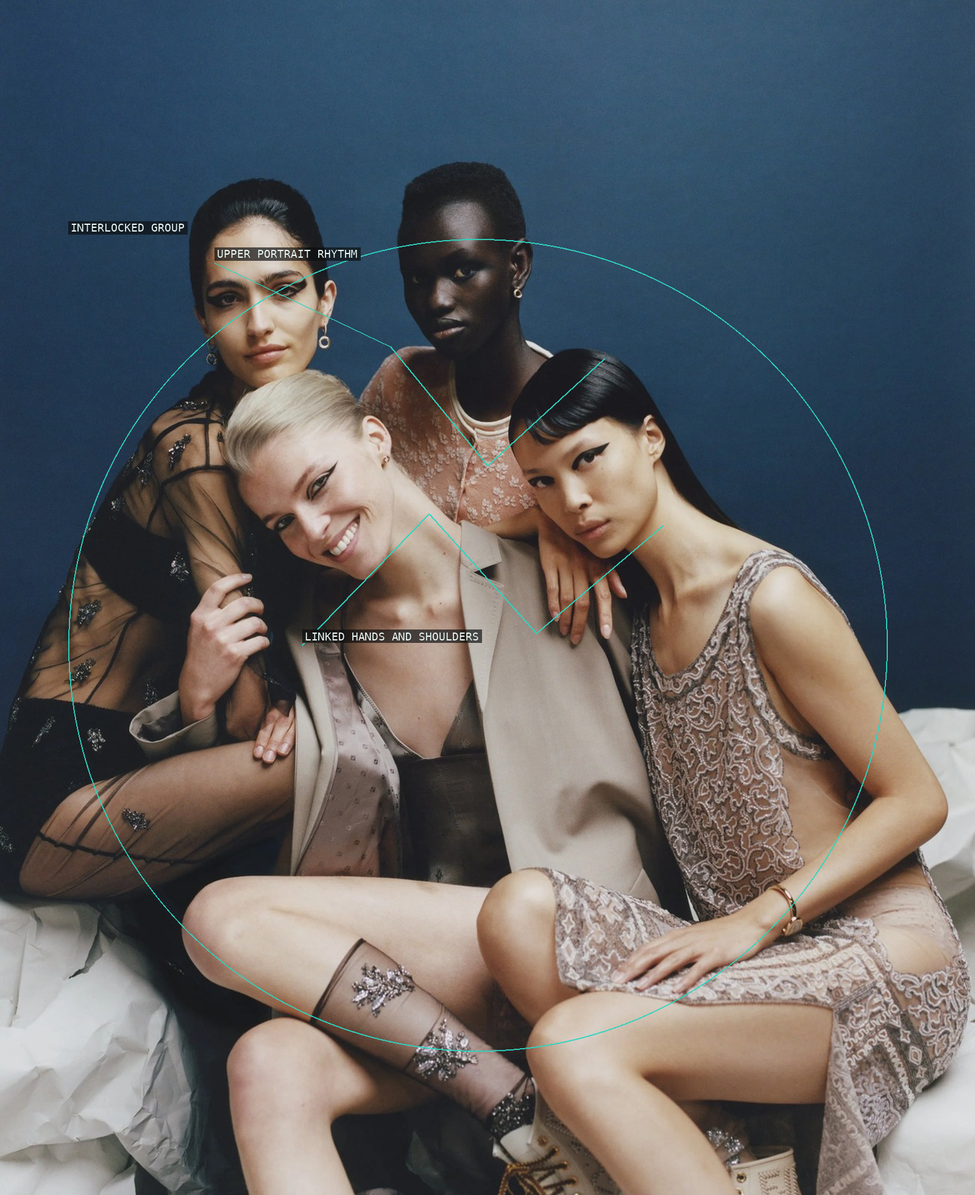
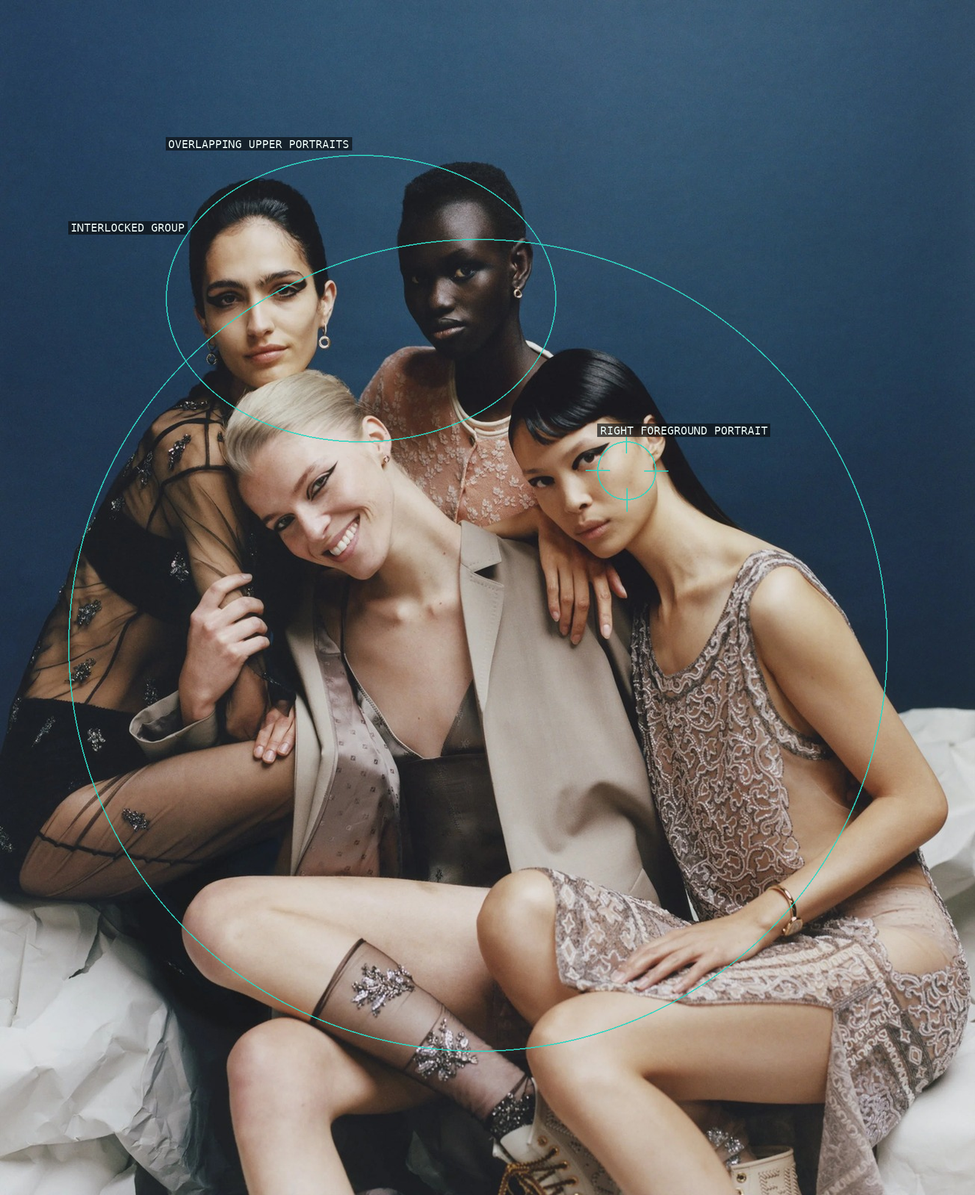
resolve critique: campbell-addy

diff --git a/content/campbell-addy/sources.md b/content/campbell-addy/sources.md
@@ -48,10 +48,10 @@ This 12-image set is drawn from the high-resolution display files published in A
 - **Rights / fair-use assessment:** Campbell Addy; © Campbell Addy. **Factor 1:** transformative composition teaching examines high-key contrast, frontal placement, and the hair silhouette. **Factor 2:** a creative contemporary art photograph. **Factor 3:** the full vertical composition is necessary to connect torso, hair, and surrounding white field. **Factor 4:** the credited 2500 × 3126px web display copy is non-substitutive of an exhibition work, print, or licensed reproduction.
 - **File:** `raw/campbell-addy/07-i-heart-campbell-21-2023.jpg` (2500 × 3126px)
 
-### 08 — *Bukayo Saka for Time Next Generation Leaders* (2023)
+### 08 — *Bukayo Saka for Time Next Generation Leaders* (2022)
 - **Why it matters:** The cover crops an upper-body portrait at the torso, using the face, white jersey, red border, and blue typography as one designed address.
-- **Source:** https://campbelladdy.com/selected-works (artist portfolio; public display file: https://images.squarespace-cdn.com/content/v1/58ea12fbd2b8576a9d65536a/1701186411144-QU8QKLKWXVFKNQ8DW11B/TIME-NGL-Cover-Bukayo-Saka.jpg)
-- **Rights / fair-use assessment:** Campbell Addy; © Campbell Addy, with *Time* cover context indicated by the filename. **Factor 1:** transformative teaching analyzes facial anchoring, jersey texture, and cover typography. **Factor 2:** a creative editorial portrait. **Factor 3:** the whole cover frame is needed to read the relation of portrait to the red border and type. **Factor 4:** this credited 2363 × 3150px public portfolio copy links to the artist and cannot replace the magazine cover or a licensed image.
+- **Source:** https://campbelladdy.com/selected-works (artist portfolio; public display file: https://images.squarespace-cdn.com/content/v1/58ea12fbd2b8576a9d65536a/1701186411144-QU8QKLKWXVFKNQ8DW11B/TIME-NGL-Cover-Bukayo-Saka.jpg); TIME’s [13 October 2022 Next Generation Leaders feature](https://time.com/collections/next-generation-leaders/6218221/bukayo-saka-2/) credits Campbell Addy for the photograph, and the cover itself is dated 24/31 October 2022.
+- **Rights / fair-use assessment:** Photograph by Campbell Addy for *TIME* (as credited by TIME). **Factor 1:** transformative teaching analyzes facial anchoring, jersey texture, and cover typography. **Factor 2:** a creative editorial portrait. **Factor 3:** the whole cover frame is needed to read the relation of portrait to the red border and type. **Factor 4:** this credited 2363 × 3150px public portfolio copy links to the artist and cannot replace the magazine cover or a licensed image.
 - **File:** `raw/campbell-addy/08-bukayo-saka-time-2023.jpg` (2363 × 3150px)
 
 ### 09 — *I ♥ Campbell*, hand-print work (2023)

diff --git a/content/campbell-addy/critique.md b/content/campbell-addy/critique.md
@@ -1,4 +1,4 @@
-verdict: revise
+verdict: resolved
 
 ## Critique round — 2026-07-27
 
@@ -99,3 +99,11 @@ verdict: revise
 - All twelve current specs strict-score 100/100. The two blocking overlay issues are semantic paths, which the deterministic scorer cannot distinguish from the named photographic features.
 - All twelve direct portfolio display-file routes returned HTTP 200 in this review. Each entry retains a traceable artist-portfolio source and a concise per-image four-factor fair-use rationale. The remaining source blocker is the demonstrably false 2023 date for the Saka cover, not access or rights-route documentation.
 - The chapter’s measured luminance, percentile, palette, edge-density, and axis claims agree with the current analyzer records within tolerance. It continues to avoid unsupported camera, lighting, and print-setting claims.
+
+## Resolution — 2026-07-27
+
+- Re-verified every prior 2026-07-27 critique round and resolution: the initial removal of 09’s unsupported body sweep and corrected source descriptions; 08’s literal jersey-collar arc; and 10’s black-oval trace and portrait-cluster anchor. Their current proofs, specs, source entries, and synchronized chapter prose still hold.
+- Replaced 03’s two false tracing paths with an ellipse around the overlapping upper portraits and an anchor on the right foreground portrait. Re-analyzed, re-rendered, visually checked, and strict-scored the revised proof at 100/100.
+- Replaced 06’s chest-crossing sleeve path with separate literal left-sleeve-to-sphere and right-sleeve-reach paths. Re-analyzed, re-rendered, visually checked, and strict-scored the revised proof at 100/100.
+- Corrected Bukayo Saka’s displayed and source-record date to 2022, citing TIME’s 13 October 2022 feature and the cover’s 24/31 October 2022 issue date; re-rendered and revalidated the plate artefact.
+- Reconfirmed all twelve current overlay specs strict-score 100/100, both chapter copies are byte-identical, and `scripts/check.sh` passes.
